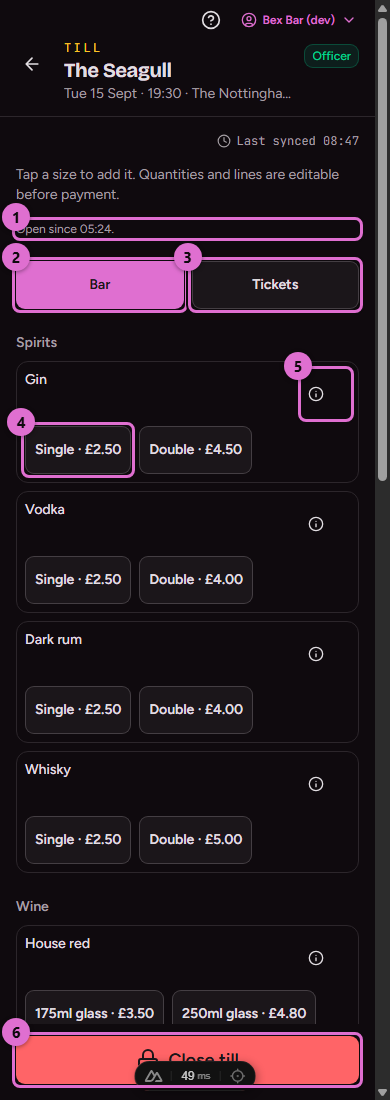
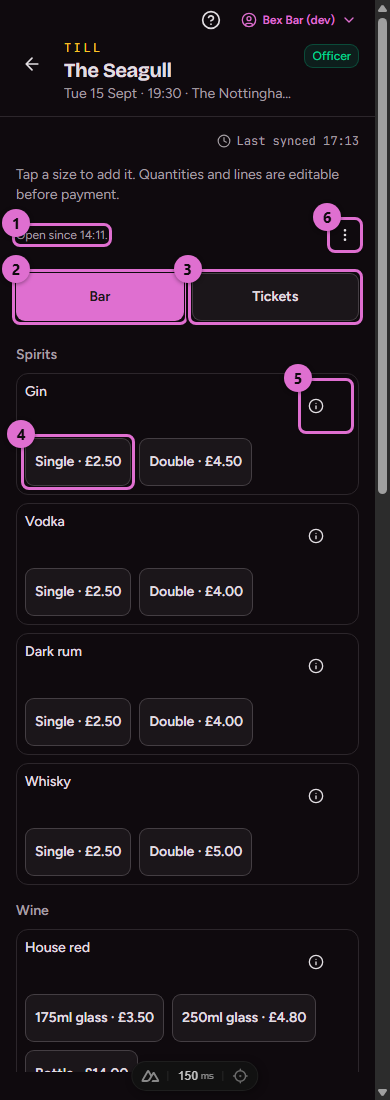
Clear a tab holder when ticket money lands, move Close till off the thumb (A5)
Two review-ui.md findings:

Finding 3: the tab-holder picker already hid once the basket held
ticket money, but the chosen holder itself survived underneath. The
pinned action kept naming the tab, sumupAvailable stayed false, and a
submission carrying both tickets and a tabHolderId was refused under
F-122 criterion 5. useTillBasket now watches hasTicketMoney and clears
selectedTabHolderId the moment it turns true; the Tickets pane says so
once. tests/e2e/tabs.test.ts: picking a holder, then adding a booking,
clears it and the charge goes to the reader.

Finding 6: Close till sat in the sticky action stack, full width and
red, directly under Charge, though it is not a per-sale action. It
moves to an overflow menu beside "Open since", leaving the thumb zone
for Charge and the SumUp hand-off only (K-102 criterion 2).
tests/e2e/till.test.ts: Close till is reached from the overflow menu,
not the pinned actions, and still closes the session.

Wiki: the-till.md and closing-the-night.md describe the new overflow
menu and the tab holder clearing; the till screenshot is re-shot.

diff --git a/tests/e2e/tabs.test.ts b/tests/e2e/tabs.test.ts
@@ -3,7 +3,7 @@ import { Database } from 'bun:sqlite'
 import { sqliteTarget } from '#tests/helpers/database'
 import { adminSession, registerMember, request } from '#tests/helpers/accounts'
 import { tonightsPerformance } from '#tests/helpers/programme'
-import { generatePassword } from '#tests/helpers/seed'
+import { generatePassword, registrableAddress } from '#tests/helpers/seed'
 import { click, fill, openSignedOutView, skipReason, startApp, textOf, visit, waitFor } from '#tests/helpers/webview'
 import type { AppUnderTest } from '#tests/helpers/webview'
 import type { TestMember } from '#tests/helpers/accounts'
@@ -109,6 +109,29 @@ async function aSellableProduct(pricePence = 500): Promise<{ variantId: string }
 
 const charge = (venueId: string, lines: unknown[], expectedTotalPence: number, tabHolderId: string | null, as = barStaff.cookie): Promise<Response> =>
   send('POST', '/api/till/sale', { venueId, lines, expectedTotalPence, tabHolderId }, as)
+
+const aTicketType = async (price = 900): Promise<string> => {
+  const answered = await send('POST', '/api/admin/ticket-types', { name: named('Standard'), price })
+  return (await answered.json() as { id: string }).id
+}
+
+async function pendingBooking(performanceId: string, ticketTypeId: string): Promise<{ id: string, reference: string }> {
+  const answered = await send('POST', '/api/reservations', {
+    performanceId,
+    lines: [{ ticketTypeId, quantity: 1 }],
+    guest: { name: 'Tab Clear Tester', email: registrableAddress('tab-clear-guest') },
+  }, '')
+  expect(answered.status).toBe(200)
+  const { reference } = await answered.json() as { reference: string }
+  const database = new Database(app.databaseFile, { readonly: true })
+  try {
+    const row = database.query('SELECT id FROM reservations WHERE reference = ?').get(reference) as { id: string }
+    return { id: row.id, reference }
+  }
+  finally {
+    database.close()
+  }
+}
 
 interface LedgerEntryRow { tender: string, tab_debtor_id: string | null, tab_settled_at: number | null, total_pence: number, actor_id: string }
 
@@ -292,6 +315,49 @@ describe.skipIf(skip !== null)('the screen', () => {
     await click(view, `[aria-label^="Put"]`)
     await waitFor(view, `document.querySelector('[data-test="charge-confirmation"]')`)
     expect(await textOf(view, '[data-test="tab-balance-note"]')).toContain('£5.00')
+    view.close()
+  }, 120_000)
+
+  // The picker hides once ticket money joins the basket; the holder it had chosen has to let go
+  // too, or the pinned action keeps naming the tab (F-122 criterion 5).
+  test('adding a booking after a tab holder is chosen clears it, so the charge goes to the reader', async () => {
+    const { venueId, performanceId } = programme(`tabs-clear-${crypto.randomUUID().slice(0, 6)}`)
+    const { variantId } = await aSellableProduct(500)
+    await openTill(venueId, performanceId)
+    const member = await aMember()
+    await authorise([member.id])
+    await setCap(2000)
+    const ticketTypeId = await aTicketType()
+    const booking = await pendingBooking(performanceId, ticketTypeId)
+
+    const view = await openSignedOutView(app.baseURL)
+    await visit(view, `${app.baseURL}/sign-in`)
+    await fill(view, 'form input[type="email"]', barStaff.email)
+    await fill(view, 'form input[type="password"]', barStaffPassword)
+    await click(view, 'form button[type="submit"]')
+    await waitFor(view, `document.querySelector('[data-test="account-menu"]')`)
+
+    await visit(view, `${app.baseURL}/tonight/till?venueId=${venueId}`, `[data-test="variant-${variantId}"]`)
+    await click(view, `[data-test="variant-${variantId}"]`)
+    await waitFor(view, `document.querySelector('[data-test="tab-holder-${member.id}"]')`)
+    await click(view, `[data-test="tab-holder-${member.id}"]`)
+    await waitFor(view, `document.querySelector('[aria-label^="Put"]')`)
+
+    await click(view, '[data-test="pane-tickets"]')
+    await fill(view, '[data-test="ticket-lookup"]', booking.reference)
+    await click(view, '[data-test="ticket-lookup-submit"]')
+    await waitFor(view, `document.querySelector('[data-test="found-add-${booking.id}"]')`)
+    await click(view, `[data-test="found-add-${booking.id}"]`)
+
+    // The picker is already hidden by this basket; what this proves is that the holder itself
+    // let go, not merely that its control went away.
+    await waitFor(view, `!document.querySelector('[aria-label^="Put"]')`)
+    expect(await textOf(view, '[data-test="basket-split"]')).toContain('£9.00')
+
+    await click(view, `[data-test="charge-reader"]`)
+    await waitFor(view, `document.querySelector('[data-test="charge-confirmation"]')`)
+    expect(await textOf(view, '[data-test="charge-confirmation"]')).toContain('Key this into the reader')
+    expect(await view.evaluate<boolean>(`!!document.querySelector('[data-test="tab-balance-note"]')`)).toBe(false)
     view.close()
   }, 120_000)
 })

diff --git a/tests/e2e/till.test.ts b/tests/e2e/till.test.ts
@@ -4,7 +4,7 @@ import { sqliteTarget } from '#tests/helpers/database'
 import { adminSession, registerMember, request } from '#tests/helpers/accounts'
 import { tonightsPerformance } from '#tests/helpers/programme'
 import { generatePassword } from '#tests/helpers/seed'
-import { skipReason, startApp } from '#tests/helpers/webview'
+import { click, fill, openSignedOutView, skipReason, startApp, visit, waitFor } from '#tests/helpers/webview'
 import { currentShowNight } from '#shared/utils/show-night'
 import { officerBypassTarget } from '#shared/utils/night-authority'
 import type { AppUnderTest } from '#tests/helpers/webview'
@@ -306,6 +306,36 @@ describe.skipIf(skip !== null)('closing a session (F-102 criterion 4)', () => {
   test('closing a session that does not exist is a 404', async () => {
     expect((await closeTill('no-such-session', bar.cookie)).status).toBe(404)
   })
+})
+
+describe.skipIf(skip !== null)('the screen', () => {
+  // Close till is not a per-sale action, so the thumb zone is Charge and the SumUp hand-off
+  // only (K-102 criterion 2).
+  test('Close till is reached from the overflow menu, not the pinned actions, and still closes the session', async () => {
+    const screenPassword = generatePassword()
+    const screenBar = await registerMember(app, 'till-screen-close', screenPassword)
+    await request(app, 'POST', '/api/admin/roles', { userId: screenBar.id, role: 'BAR_MANAGER' }, admin.cookie)
+    const closing = programme('till-screen-close')
+    await openTill(closing.venueId, screenBar.cookie)
+
+    const view = await openSignedOutView(app.baseURL)
+    await visit(view, `${app.baseURL}/sign-in`)
+    await fill(view, 'form input[type="email"]', screenBar.email)
+    await fill(view, 'form input[type="password"]', screenPassword)
+    await click(view, 'form button[type="submit"]')
+    await waitFor(view, `document.querySelector('[data-test="account-menu"]')`)
+
+    await visit(view, `${app.baseURL}/tonight/till?venueId=${closing.venueId}`, `[data-test="till-open"]`)
+    expect(await view.evaluate<boolean>(`!!document.querySelector('[data-test="open-close-till"]')`)).toBe(false)
+
+    await click(view, '[data-test="till-overflow-menu"]')
+    await waitFor(view, `[...document.querySelectorAll('[role="menuitem"]')].some(el => el.textContent.includes('Close till'))`)
+    await view.evaluate(`[...document.querySelectorAll('[role="menuitem"]')].find(el => el.textContent.includes('Close till')).click()`)
+    await waitFor(view, `document.querySelector('[data-test="confirm-close-till"]')`)
+    await click(view, '[data-test="confirm-close-till"]')
+    await waitFor(view, `document.querySelector('[data-test="till-closed"]')`)
+    view.close()
+  }, 120_000)
 })
 
 describe.skipIf(skip !== null)('a stale session waits for the bar manager, not tonight\'s shift (F-102 criterion 5)', () => {

diff --git a/app/pages/tonight/till/index.vue b/app/pages/tonight/till/index.vue
@@ -285,12 +285,28 @@ const allergenOpen = ref<{ name: string, state: SaleProduct['allergenState'], no
         v-else-if="session"
         class="space-y-6"
       >
-        <p
-          data-test="till-open"
-          class="text-xs text-muted"
-        >
-          Open since {{ londonClock(new Date(session.openedAt * 1000)) }}.
-        </p>
+        <div class="flex items-center justify-between gap-2">
+          <p
+            data-test="till-open"
+            class="text-xs text-muted"
+          >
+            Open since {{ londonClock(new Date(session.openedAt * 1000)) }}.
+          </p>
+          <!-- Not a per-sale action, so it lives here rather than under the thumb (K-102
+               criterion 2, review-ui.md finding 6). -->
+          <UDropdownMenu
+            :items="[[{ label: 'Close till', icon: 'i-lucide-lock', onSelect: openCloseModal }]]"
+          >
+            <UButton
+              icon="i-lucide-ellipsis-vertical"
+              color="neutral"
+              variant="ghost"
+              size="sm"
+              aria-label="More till actions"
+              data-test="till-overflow-menu"
+            />
+          </UDropdownMenu>
+        </div>
 
         <UAlert
           v-if="catalogue.error.value"
@@ -532,15 +548,7 @@ const allergenOpen = ref<{ name: string, state: SaleProduct['allergenState'], no
           @press="() => charge()"
         />
         <NightAction
-          v-if="session"
-          label="Close till"
-          icon="i-lucide-lock"
-          color="error"
-          data-test="open-close-till"
-          @press="openCloseModal"
-        />
-        <NightAction
-          v-else
+          v-if="!session"
           label="Open till"
           icon="i-lucide-lock-open"
           :loading="busy"

diff --git a/app/composables/useTillBasket.ts b/app/composables/useTillBasket.ts
@@ -91,6 +91,12 @@ export function useTillBasket(deps: TillBasketDeps) {
   const hasTicketMoney = computed(() => ticketLines.value.length > 0 || walkUpLines.value.length > 0)
   const basketEmpty = computed(() => basket.value.length === 0 && !hasTicketMoney.value)
 
+  // Credit cannot pay for a ticket (F-122 criterion 5): the holder itself has to let go, not
+  // just its picker, or the pinned action keeps naming a tab the server would then refuse.
+  watch(hasTicketMoney, (has) => {
+    if (has) selectedTabHolderId.value = null
+  })
+
   const priced = ref<PricedBasket | null>(null)
   const pricing = ref(false)
   const priceFailure = ref<string | null>(null)

diff --git a/scripts/docs-shots/show-night.ts b/scripts/docs-shots/show-night.ts
@@ -74,7 +74,7 @@ export const showNight: Shot[] = [
       { selector: '[data-test="pane-tickets"]', label: 'Tickets' },
       { selector: '[data-test^="variant-"]', label: 'A size' },
       { selector: '[data-test^="allergen-"]', label: 'Allergens' },
-      { selector: '[data-test="open-close-till"]', label: 'Close till' },
+      { selector: '[data-test="till-overflow-menu"]', label: 'Close till (not a per-sale action)' },
     ],
   },
   {

diff --git a/app/components/till/TicketsPane.vue b/app/components/till/TicketsPane.vue
@@ -41,6 +41,10 @@ const walkUpGuestEmail = defineModel<string>('walkUpGuestEmail', { required: tru
     class="space-y-4"
     data-test="tickets-pane"
   >
+    <p class="text-xs text-muted">
+      Ticket money is taken on the reader: credit cannot pay for a ticket, so choosing one here clears any tab holder already picked.
+    </p>
+
     <NightBlock title="Find a booking">
       <div class="flex flex-wrap gap-2">
         <UInput

diff --git a/content/docs/03.show-night/3.the-till.md b/content/docs/03.show-night/3.the-till.md
@@ -31,7 +31,7 @@ sale, and a mismatch with what the server computes refuses, quoting both figures
 
 ## Selling drinks
 
-![The till with the Open since line (1), the Bar pane (2), the Tickets pane (3), a size button (4), the allergen button (5) and Close till (6)](/images/docs/show-night/till.png)
+![The till with the Open since line (1), the Bar pane (2), the Tickets pane (3), a size button (4), the allergen button (5) and the overflow menu (6)](/images/docs/show-night/till.png)
 
 1. **Open since** is tonight's session.
 2. **Bar** is the drinks grid, grouped by category.
@@ -39,7 +39,9 @@ sale, and a mismatch with what the server computes refuses, quoting both figures
 4. **A size**: tap it to add one to the basket. A size that offers a choice (a mixer, say) asks
    for it before the line lands; the choice depletes stock at no extra charge.
 5. **Allergens** opens the product's allergen note over the basket without leaving the sale.
-6. **Close till** is the end of the night; see [Closing the night](/docs/show-night/closing-the-night).
+6. The **overflow menu** holds **Close till**: it is the end of the night, not a per-sale
+   action, so it sits here rather than under the thumb; see
+   [Closing the night](/docs/show-night/closing-the-night).
 
 The **Basket** lists every line with plus, minus and remove. The total is recomputed by the
 server on every change, never trusted from the screen. Two choices sit under the lines:
@@ -49,8 +51,9 @@ server on every change, never trusted from the screen. Two choices sit under the
   the sale.
 - **Charge to**: **The reader**, or a named holder's tab. Only members the committee has
   authorised appear. A tab is capped at {{ BAR_TAB_CAP_PENCE }} pence outstanding, and a charge
-  over the cap is refused unless a manager overrides it. The picker is hidden while the basket
-  holds ticket money, because credit never marks a booking paid.
+  over the cap is refused unless a manager overrides it. Credit never marks a booking paid, so
+  the picker is hidden and any holder already chosen clears the moment ticket money joins the
+  basket.
 
 ## Challenge 25 at the point of sale
 

diff --git a/content/docs/03.show-night/9.closing-the-night.md b/content/docs/03.show-night/9.closing-the-night.md
@@ -30,10 +30,11 @@ its state. The till will not close while one is waiting.
 
 ## Closing the till
 
-1. Press **Close till** on the till. The dialogue works out what the ledger expects the reader
-   to show for this bar tonight: card sales, tab settlements, comps (count and value foregone),
-   discounts given, refunds and tab charges (credit extended, no money moved), with the desk's
-   takings shown alongside for the whole-day figure.
+1. On the till, open the overflow menu (top right) and press **Close till**. It is not a
+   per-sale action, so it is not one of the pinned buttons. The dialogue works out what the
+   ledger expects the reader to show for this bar tonight: card sales, tab settlements, comps
+   (count and value foregone), discounts given, refunds and tab charges (credit extended, no
+   money moved), with the desk's takings shown alongside for the whole-day figure.
 2. Read the Z figure off the reader and key it into the field.
 3. If it differs from the expected figure the dialogue says by how much, over or under, and asks
    why. Write the note.
